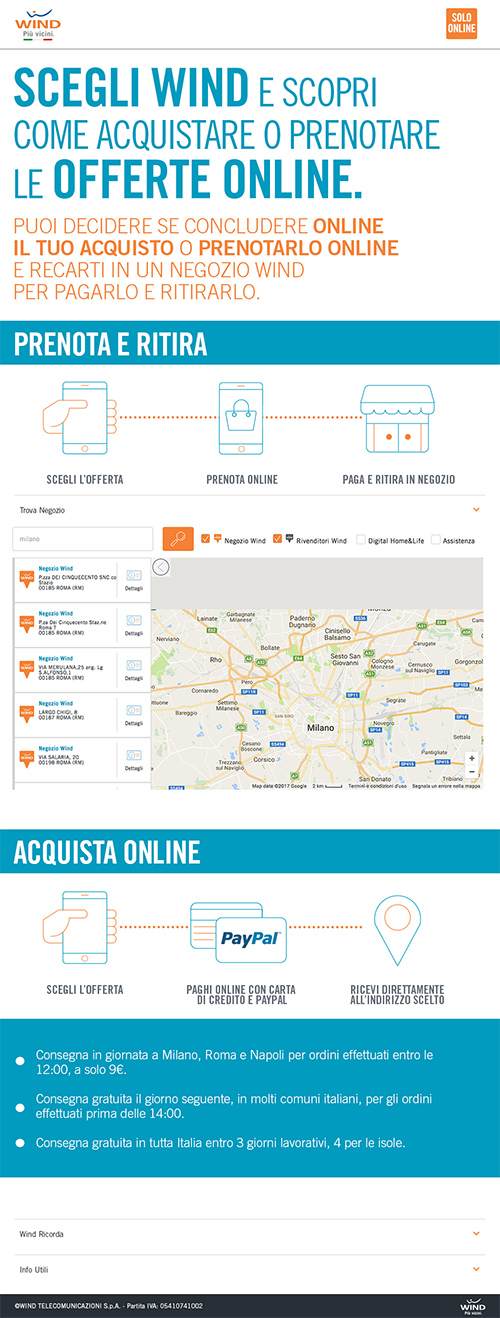
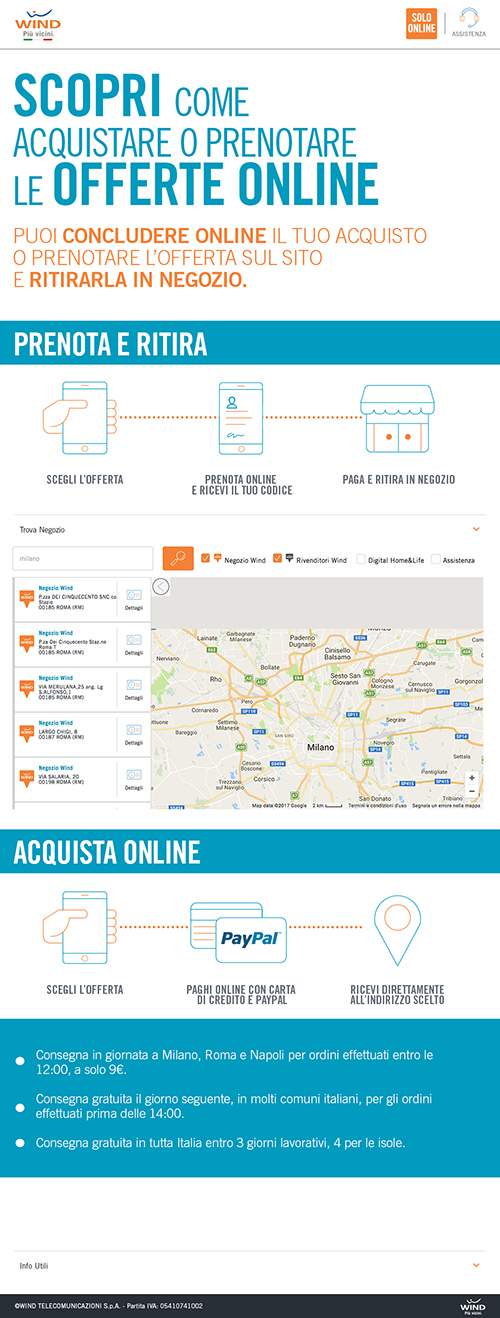
LP Pick & Pay update text + img

diff --git a/LandingRestyle/html/partials/accordions/accordion_pickpay.html b/LandingRestyle/html/partials/accordions/accordion_pickpay.html
@@ -6,17 +6,17 @@
     <div class="showcase_accordions_block">
         <!-- tirato fuori dal blocco per poter usare gli accordions da soli -->
         <ul>
-            <li class="showcase_accordions_block__single">
+<!--             <li class="showcase_accordions_block__single">
                 <input type="checkbox" checked class="accordionBox">
                 <i></i>
-                <h2>Wind Ricorda</h2>
+                <h2>Per saperne di più leggi le FAQ</h2>
                 <div class="showcase_accordions_block__container">
                     <div>
-                        <p>L&#39; OFFERTA SI RINNOVA OGNI 4 SETTIMANE. Per Ricaricabile. Attivabile per clienti che attivano una nuova SIM o passano a Wind portando il proprio numero su una nuova SIM. Senza costo di attivazione. Al termine delle 4 settimane gratuite l’ offerta resta attiva al costo di 10,50 euro/4 settimane. Traffico nazionale. Al superamento dei minuti inclusi e degli SMS inclusi, verrà applicata rispettivamente una tariffa senza scatto alla risposta e con tariffazione al secondo di 29 cent/min e di 15cent/SMS. Superati i GIGA disponibili, velocità max 32 kbps. E&#39; possibile usufruire dei bonus dell&#39;opzione se si ha credito sulla carta. All Inclusive 1000 Limited Edition non è compatibile con le offerte Pieno Wind, Under 30 e tutte le opzioni che includono un bonus nazionale di minuti, SMS e GIGA ad eccezione delle offerte Internet Veon Welcome Giga, Internet Veon 100 Mega e delle Optional + minuti, + SMS, + GIGA, GIGA MAX Limited Edition, Open Internet 12 GIGA, Giga International, Internet 5 GIGA, Porta i tuoi Amici, Smartphone Box, Internet Box, Powered Infostrada e Giga per te. L&#39;eventuale opzione non compatibile già attiva sulla SIM sarà disattivata automaticamente e si potrà iniziare a usare subito la nuova offerta. EASY EUROPE In via promozionale a partire dal 24 Aprile 2017 Wind ha deciso di anticipare i benefici economici per gli utenti previsti dalla Regolamentazione Europea, ad eccezione delle opzioni Call Your Country e Tourist Pass e delle promozioni Porta i Tuoi Amici, Promo 5 GIGA, Smartphone Box e Easy Night e delle altre promozioni gratuite che includono servizi dati nazionali. L’utilizzo delle offerte nazionali in Unione Europea senza alcun sovrapprezzo è consentito nell’ambito di viaggi occasionali e nel rispetto delle politiche di uso corretto definite ai sensi del Regolamento Europeo 2016/2286. Per maggiori dettagli, vai su <a href="wind.it/it/promo/easy-europe/" target="_blank">wind.it/it/promo/easy-europe/</a>
+                        <p>testo da inserire...</a>
                         </p>
                     </div>
                 </div>
-            </li>
+            </li> -->
             <li class="showcase_accordions_block__single">
                 <input type="checkbox" checked class="accordionBox">
                 <!-- checkbox nascosto che fa partire l'apri/chiudi -->
@@ -24,8 +24,7 @@
                 <h2>Info Utili</h2>
                 <div class="showcase_accordions_block__container">
                     <div>
-                        <p>
-                            L’opzione non include, nel bonus Voce, le videochiamate, le chiamate in roaming internazionale al di fuori dell’Unione Europea, le chiamate dati/fax, le chiamate dirette verso numerazioni di gestori esteri e le chiamate a tariffa speciale. L’opzione non include, nel bonus SMS, i messaggi inviati in roaming internazionale al di fuori dell’Unione Europea e verso numerazioni di gestori esteri, i messaggi speciali che iniziano con il carattere * (asterisco), i messaggi dei servizi di informazione e intrattenimento, i messaggi di notifica, i messaggi verso indirizzi email, fax e numeri Wind Tandem &amp; SMS. Il traffico Internet incluso è valido solo per le connessioni sviluppate in Italia e in Roaming in Unione Europea, sotto copertura 4G/LTE, HSDPA, UMTS, EDGE o GPRS a esclusione delle connessioni GSM e del traffico effettuato da punto di accesso blackberry.net. Per navigare da BlackBerry®, è necessario attivare l&#39;opzione BlackBerry® No Stop, a eccezione dei BlackBerry® con sistema operativo BB10, per i quali è valido il traffico Internet incluso.</p>
+                        <p>Inserire testo...</p>
                     </div>
                 </div>
             </li>

diff --git a/LandingRestyle/html/partials/hero/hero_pickpay.html b/LandingRestyle/html/partials/hero/hero_pickpay.html
@@ -6,19 +6,17 @@
         <div class="container">
             <div class="landing__hero--title display_inline vertical_middle box_width_100">
                 <h1 class="margin_bottom_m_10 margin_bottom_10">
-                    <span class="landing__hero--title--mainTitle font_size_m_46 extended_line_height vw_font_80 padding_top_30">SCEGLI WIND</span>
-                    <span class="landing__hero--title--light font_size_m_40 extended_line_height vw_font_70 padding_top_30">E SCOPRI<br class="only_mobile"/> COME ACQUISTARE O PRENOTARE LE</span>
-                    <span class="landing__hero--title--mainTitle font_size_m_46 extended_line_height vw_font_80 padding_top_30">OFFERTE ONLINE.</span>
+                    <span class="landing__hero--title--mainTitle font_size_m_46 extended_line_height vw_font_90 padding_top_30">SCOPRI</span>
+                    <span class="landing__hero--title--light font_size_m_40 extended_line_height vw_font_80 padding_top_30"><br class="only_mobile"/> COME <br class="only_desktop"/>ACQUISTARE <br class="only_mobile"/>O PRENOTARE <br/>LE</span>
+                    <span class="landing__hero--title--mainTitle font_size_m_46 extended_line_height vw_font_90 padding_top_30">OFFERTE ONLINE</span>
                 </h1>
             </div>
             <div class="text_color_orange font_size_42 font_size_m_26 margin_bottom_20">
-                <span class="hero_claim font_light text_uppercase">Puoi decidere se concludere</span>
-                <span class="hero_claim font_bold text_uppercase">online il tuo acquisto</span>
-                <span class="hero_claim font_light text_uppercase">o</span>
-                <span class="hero_claim font_bold text_uppercase">prenotarlo online</span>
-                <span class="hero_claim font_light text_uppercase">e recarti in un Negozio Wind
-                    <br class="only_desktop" /> per pagarlo e ritirarlo.</span>
-            </div>
+                <span class="hero_claim font_light text_uppercase">Puoi </span>
+                <span class="hero_claim font_bold text_uppercase">concludere online </span>
+                <span class="hero_claim font_light text_uppercase">il tuo acquisto <br class="only_desktop"/>o prenotare l'offerta sul sito <br class="only_desktop"/>e</span>
+                <span class="hero_claim font_bold text_uppercase">ritirarla in negozio.</span>
+            </div> 
         </div>
     </div>
     <!-- <div class="landing__hero--claim">

diff --git a/LandingRestyle/html/partials/offer_details/offer_details_pickpay.html b/LandingRestyle/html/partials/offer_details/offer_details_pickpay.html
@@ -28,7 +28,7 @@
         <div class="container">
             <ul class="details">
                 <li>
-                    <div class="font_size_26 font_size_m_20 font_light">Accedi al tuo ID AppleConsegna in giornata a Milano, Roma e Napoli per ordini effettuati entro le 12:00, a solo 9&euro;.</div>
+                    <div class="font_size_26 font_size_m_20 font_light">Consegna in giornata a Milano, Roma e Napoli per ordini effettuati entro le 12:00, a solo 9&euro;.</div>
                 </li>
                 <li>
                     <div class="font_size_26 font_size_m_20 font_light">Consegna gratuita il giorno seguente, in molti comuni italiani, per gli ordini effettuati prima delle 14:00.</div>
